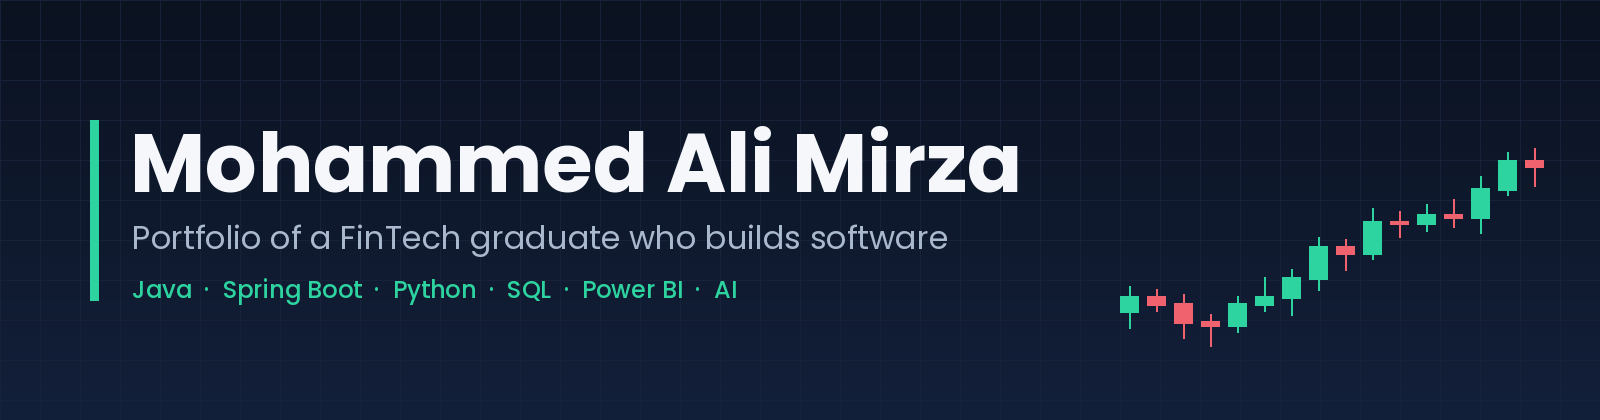
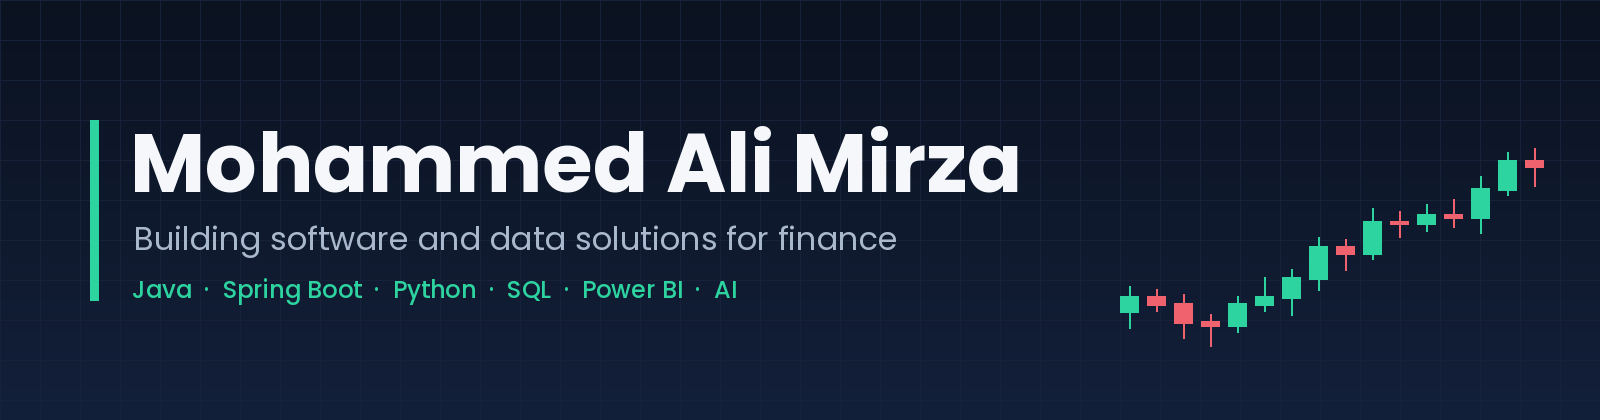
Remove graduate wording and degree grade from profile
Claude-Session: https://claude.ai/code/session_01T3bmQDHmAAHQPR8sKsHRUW

Changed region(s): [[0.0625, 0.5262, 0.5938, 0.619]]

diff --git a/README.md b/README.md
@@ -1,23 +1,23 @@
-<img src="img/header.png" alt="banner that says Mohammed Ali Mirza, portfolio of a FinTech graduate who builds software">
+<img src="img/header.png" alt="banner that says Mohammed Ali Mirza, building software and data solutions for finance">
 
-### <div align="center">I'm Ali, a FinTech graduate who builds software 👨💻 Based in Manchester 🇬🇧</div>
+### <div align="center">I'm Ali. I build software and data solutions for finance 👨💻 Manchester 🇬🇧</div>
 
 - 🔭 I'm currently a KYC Analyst in Business Banking at Barclays
 - 💼 Two years as a Backend Developer at Peachr, building Spring Boot services for e-commerce and UK healthcare clients
-- 📖 MSc Financial Technology at the University of Salford (submitted, results pending) and BSc (Hons) Computer Science, 2:1
+- 📖 MSc Financial Technology and BSc (Hons) Computer Science from the University of Salford
 - 🌱 I build with AI every day: RAG and agent systems, workflow automation and the OpenAI and Anthropic APIs
-- ⚡ I am passionate about finance, trading, property and building products people actually use
+- ⚡ I focus on finance, trading, property and building products people actually use
 - 🎯 Open to roles across software, data and analysis
-- 📫 Feel free to contact me on [LinkedIn](https://www.linkedin.com/in/ali-mirza02/)
+- 📫 Connect with me on [LinkedIn](https://www.linkedin.com/in/ali-mirza02/)
 
 <br/>
 
 # Education
 
-| Degree | University | Dates | Result |
-| --- | --- | --- | --- |
-| MSc Financial Technology | University of Salford | 09/2025 to 09/2026 | Submitted, results pending |
-| BSc (Hons) Computer Science | University of Salford | 09/2022 to 06/2025 | 2:1 |
+| Degree | University | Dates |
+| --- | --- | --- |
+| MSc Financial Technology | University of Salford | 09/2025 to 09/2026 |
+| BSc (Hons) Computer Science | University of Salford | 09/2022 to 06/2025 |
 
 # Skills
 To get the name of the skill, place your cursor on it.
